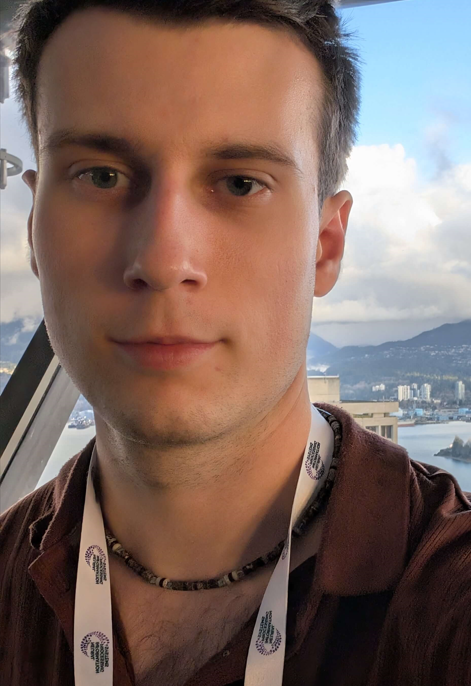
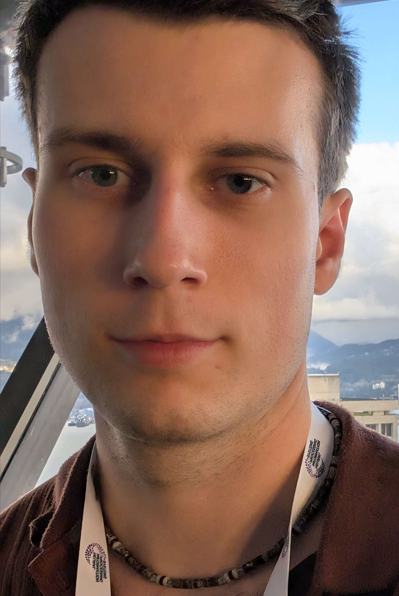
no more circle bio pics

diff --git a/css/styles.css b/css/styles.css
@@ -660,7 +660,7 @@ footer {
 .avatar {
     width: 84px;
     height: 84px;
-    border-radius: 50%;
+    border-radius: 8px;
     border: 2px solid #404040;
     object-fit: cover;
     margin-bottom: 16px;
@@ -669,9 +669,7 @@ footer {
 }
 
 .avatar-adjust {
-    object-fit: cover !important;
-    object-position: 70% 50% !important;
-    overflow: hidden !important;
+    object-position: 65% center;
 }
 
 .name {
